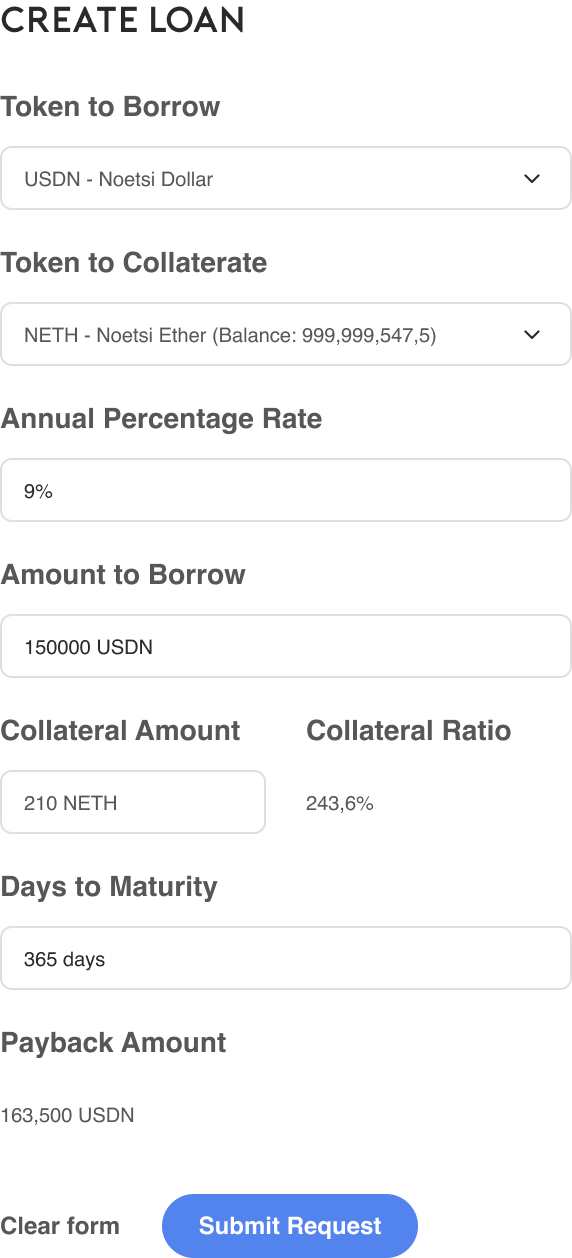
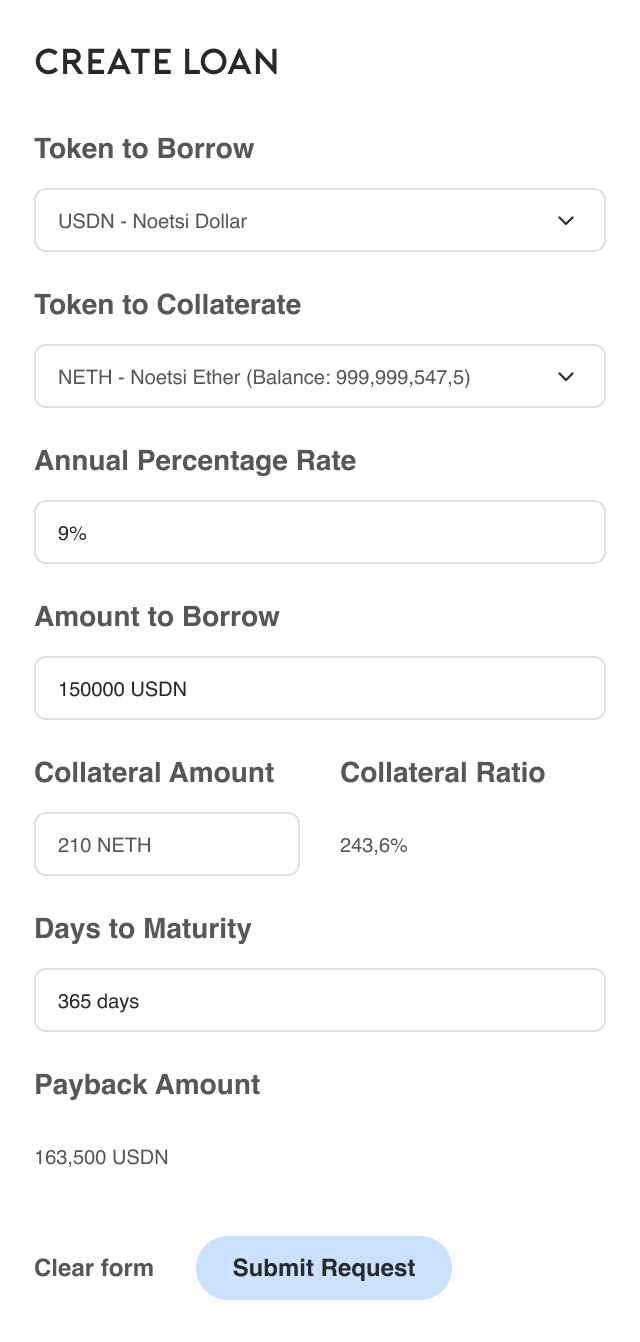
change img

diff --git a/style-mobile.css b/style-mobile.css
@@ -7,6 +7,7 @@
 
     .use-crypto__body {
         flex-direction: column;
+        gap: 22px;
     }
 
     .use-crypto__create-loan {
@@ -42,6 +43,7 @@
     /*todo delete this*/
     .use-crypto__create-loan--mob {
         display: block;
+        padding: 0;
     }
 
     /*todo delete this*/
